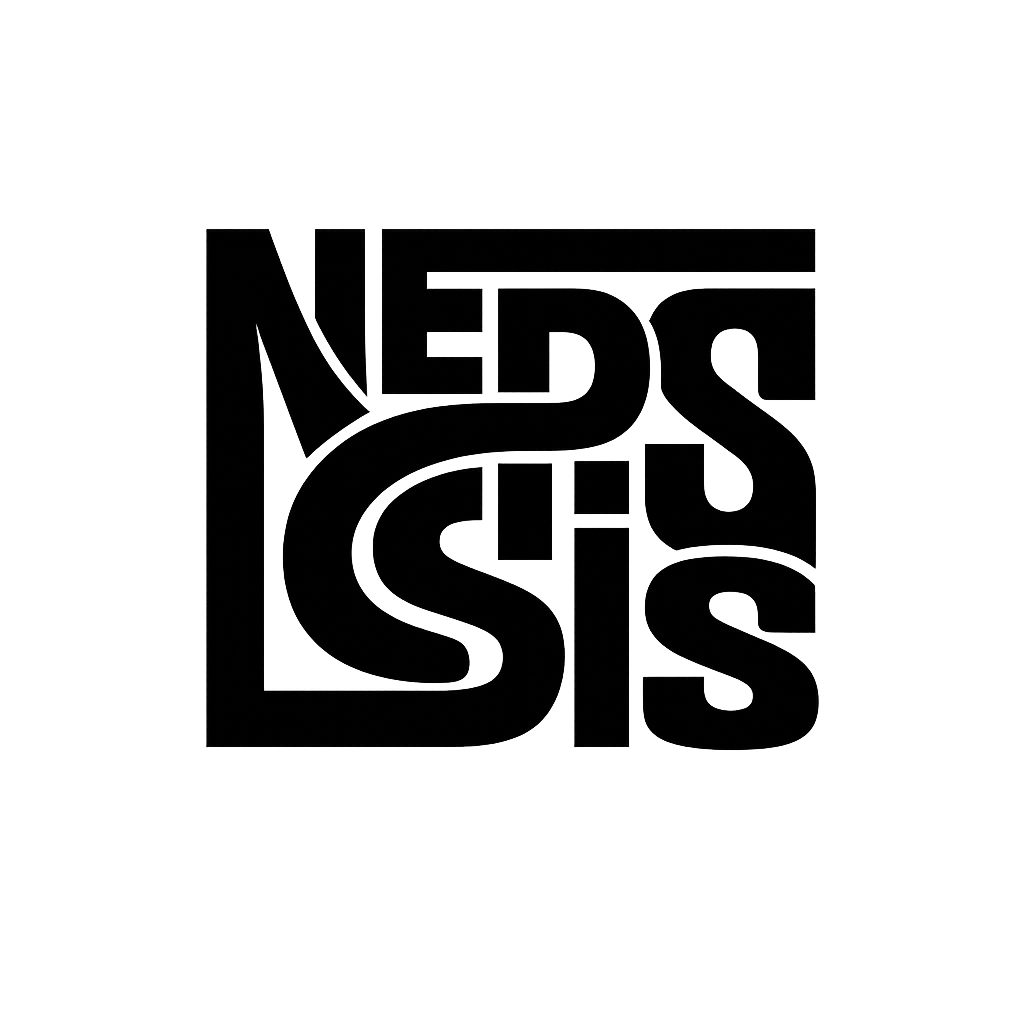
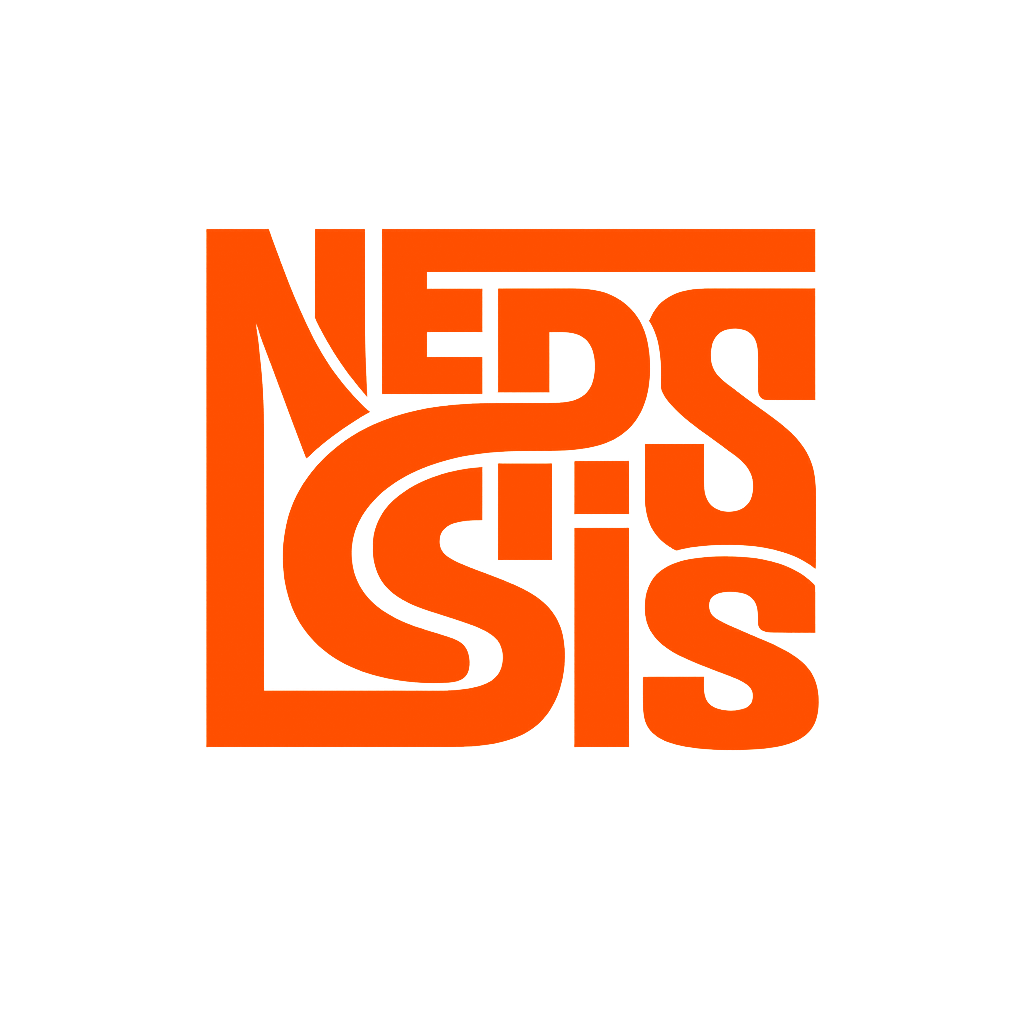
Update WIKI docs for Supabase migration

Changed region(s): [[0.1875, 0.2188, 0.8125, 0.75]]

diff --git a/scripts/deploy.js b/scripts/deploy.js
@@ -1,0 +1,21 @@
+/**
+ * Deploy to Fly.io — wraps flyctl so it works from npm scripts on Windows.
+ * flyctl is installed to %USERPROFILE%\.fly\bin which isn't on the system PATH
+ * by default, so this script prepends it before calling flyctl.
+ */
+const { execSync } = require('child_process')
+const path = require('path')
+const os = require('os')
+
+const flyBin = path.join(os.homedir(), '.fly', 'bin')
+const env = { ...process.env, PATH: `${flyBin}${path.delimiter}${process.env.PATH}` }
+
+try {
+  execSync('flyctl deploy --app nepsis-chat --local-only', {
+    stdio: 'inherit',
+    env,
+    cwd: path.join(__dirname, '..'),
+  })
+} catch (e) {
+  process.exit(e.status || 1)
+}

diff --git a/docs/deployment.md b/docs/deployment.md
@@ -1,20 +1,54 @@
 # Deployment
 
-Fly.io deployment, Docker, and environment config.
+Fly.io deployment, Supabase, Docker, and environment config.
 
 ---
 
 ## Architecture
 
-In production the **backend serves everything** — API, Socket.io, and the frontend static files.
-
 ```
 User/Electron → https://nepsis-chat.fly.dev
-                   ├─ /api/*       → Express API
+                   ├─ /api/*       → Express API (data from Supabase Postgres)
                    ├─ /updates/*   → Electron update files
                    ├─ /socket.io   → Socket.io (chat + voice signaling)
                    └─ /*           → Frontend static files (React SPA)
+
+Supabase (external)
+   ├─ Postgres      → All app data (users, servers, channels, messages)
+   └─ Auth          → Email sign up / sign in
 ```
+
+---
+
+## Supabase
+
+| Item | Value |
+|------|-------|
+| Project URL | `https://opkatioqcmamnwmvqdtq.supabase.co` |
+| Dashboard | `https://supabase.com/dashboard/project/opkatioqcmamnwmvqdtq` |
+| Database | Postgres (tables: users, servers, channels, messages, dm_*) |
+| Auth | Email/password sign up + sign in |
+
+### Tables
+
+| Table | Purpose |
+|-------|---------|
+| `users` | All users — guests (`is_guest=true`) and email accounts (`auth_id` links to Supabase Auth) |
+| `servers` | Chat servers |
+| `channels` | Text and voice channels per server |
+| `messages` | Chat messages |
+| `dm_conversations` | DM threads |
+| `dm_participants` | DM participants |
+| `dm_messages` | DM messages |
+
+### Auth flow
+
+- **Guest**: Username only → creates a row in `users` with `is_guest=true`, no Supabase Auth
+- **Email**: Supabase Auth handles sign up/sign in → backend links `auth.users.id` to `users.auth_id`
+
+### Migration
+
+Schema is in `backend/supabase-migration.sql`. Run it in the Supabase SQL Editor to create/reset tables.
 
 ---
 
@@ -26,31 +60,27 @@ User/Electron → https://nepsis-chat.fly.dev
 | URL | `https://nepsis-chat.fly.dev` |
 | Region | `ord` (Chicago) |
 | Internal port | 8080 |
-| Volume | `nepsis_data` mounted at `/data` (SQLite persistence) |
 
-### First-time setup
-
-```bash
-# Install Fly CLI: https://fly.io/docs/flyctl/install/
-fly auth login
-fly launch          # Say no to modifications — fly.toml already exists
-fly volumes create nepsis_data --region ord --size 1
-fly deploy
-```
-
-### Subsequent deploys
+### Deploy
 
 ```bash
-fly deploy
+flyctl deploy --app nepsis-chat --local-only
 ```
 
 ### Logs and status
 
 ```bash
-fly logs
-fly status
-fly ssh console     # SSH into the running machine
+flyctl logs --app nepsis-chat --no-tail
+flyctl status --app nepsis-chat
 ```
+
+### Secrets (set via `flyctl secrets set`)
+
+| Secret | Purpose |
+|--------|---------|
+| `SUPABASE_URL` | Supabase project URL |
+| `SUPABASE_ANON_KEY` | Supabase anon/public key |
+| `SUPABASE_SERVICE_ROLE_KEY` | Supabase service role key (private) |
 
 ---
 
@@ -61,35 +91,32 @@ The `Dockerfile` is a multi-stage build:
 1. **Stage 1** (`frontend-build`): Installs frontend deps, runs `npm run build`
 2. **Stage 2** (`production`): Installs backend deps, copies backend source + built frontend into `backend/public/`
 
-### Build and run locally
+After deploying, free disk space with:
 
 ```bash
-docker build -t nepsis-chat .
-docker run -p 8080:8080 -v nepsis_data:/data nepsis-chat
+docker system prune -a -f
 ```
-
-Then open `http://localhost:8080`.
 
 ---
 
 ## Environment Variables
 
-### Backend (production)
+### Backend (runtime — set via Fly.io secrets or `backend/.env`)
 
-| Variable | Default | Purpose |
-|----------|---------|---------|
-| `PORT` | `8080` | Server port |
-| `DATA_DIR` | `../` (relative to src) | Directory for `data.sqlite` — set to `/data` on Fly.io |
-| `CORS_ORIGINS` | `*` | Comma-separated allowed origins |
-| `NODE_ENV` | — | `production` on Fly.io |
+| Variable | Purpose |
+|----------|---------|
+| `PORT` | Server port (default 8080) |
+| `SUPABASE_URL` | Supabase project URL |
+| `SUPABASE_SERVICE_ROLE_KEY` | Supabase service role key |
+| `CORS_ORIGINS` | Allowed origins (default `*`) |
 
 ### Frontend (build-time)
 
-| Variable | Default (dev) | Production |
-|----------|---------------|------------|
+| Variable | Dev | Production |
+|----------|-----|------------|
 | `VITE_API_URL` | `http://localhost:3000/api` | `https://nepsis-chat.fly.dev/api` |
-
-Configured in `frontend/.env.development` and `frontend/.env.production`.
+| `VITE_SUPABASE_URL` | (from `.env.local`) | `https://opkatioqcmamnwmvqdtq.supabase.co` |
+| `VITE_SUPABASE_ANON_KEY` | (from `.env.local`) | (in `.env.production`) |
 
 ### Electron
 
@@ -100,23 +127,12 @@ Configured in `frontend/.env.development` and `frontend/.env.production`.
 
 ---
 
-## GitHub
+## Secret files (NEVER commit)
 
-Repository: push to GitHub, then Fly.io deploys from the Dockerfile.
+| File | Contains |
+|------|----------|
+| `backend/.env` | `SUPABASE_URL`, `SUPABASE_ANON_KEY`, `SUPABASE_SERVICE_ROLE_KEY` |
+| `frontend/.env.local` | `VITE_SUPABASE_URL`, `VITE_SUPABASE_ANON_KEY` |
+| `Nepsis Chat DB.txt` | DB password, service role key |
 
-```bash
-git init
-git add .
-git commit -m "Initial commit"
-gh repo create nepsis-chat --public --source=. --push
-```
-
----
-
-## SQLite on Fly.io
-
-Fly.io machines have ephemeral filesystems. The `fly.toml` mounts a **persistent volume** at `/data`. The backend reads `DATA_DIR` and stores `data.sqlite` there.
-
-- Volume survives deploys and machine restarts
-- Volume is tied to a single machine (no multi-machine scaling with SQLite)
-- To backup: `fly ssh sftp get /data/data.sqlite`
+All are in `.gitignore`.

diff --git a/docs/WIKI.md b/docs/WIKI.md
@@ -39,10 +39,31 @@ Main documentation index. Nepsis Chat is a WebRTC voice chat application (Opus c
 |-------|------|
 | 1 | Frontend foundation — React, Vite, Tailwind, chat UI |
 | 2 | WebRTC voice — getUserMedia, mesh P2P, BroadcastChannel signaling |
-| 3 | Backend — Node.js, Express, Socket.io, SQLite |
+| 3 | Backend — Node.js, Express, Socket.io, SQLite → Supabase Postgres |
 | 4 | Integration — API, Socket.io signaling |
 | 5 | Desktop app — Electron, NSIS installer, download page |
 | + | Versioning 0.0.1, auto-updates, green update button |
-| + | Branding — Nepsis logo (favicon, app icon, installer, all UI) |
+| + | Branding — Nepsis logo, bright orange (#FF6600), all locations consistent |
 | + | System tray — Close window hides to tray; right-click tray to Show/Quit |
 | + | Deployment — Fly.io, GitHub, Docker, env-based config |
+| + | Supabase migration — Postgres DB + email auth (guest + email login) |
+
+---
+
+## Logo / Branding
+
+The Nepsis logo is **bright orange** (#FF6600) on a white background, in a square format with stylized "NEPSIS" text.
+
+| File | Size | Purpose |
+|------|------|---------|
+| `electron/icon.png` | 1024x1024 | **Master logo** — Electron app icon (window, tray, installer, taskbar) |
+| `frontend/public/logo.png` | 1024x1024 | UI logo (LoginPage, ServerBar, ChannelList, DownloadPage) |
+| `frontend/public/favicon.png` | 32x32 | Browser tab favicon |
+
+**To update the logo:**
+1. Replace `electron/icon.png` with the new logo (keep >=256x256 for Windows)
+2. Copy the same file to `frontend/public/logo.png`
+3. Resize to 32x32 and save as `frontend/public/favicon.png`
+4. Rebuild: `npm run package:full`
+
+All three files must stay in sync and use the same bright orange color.
